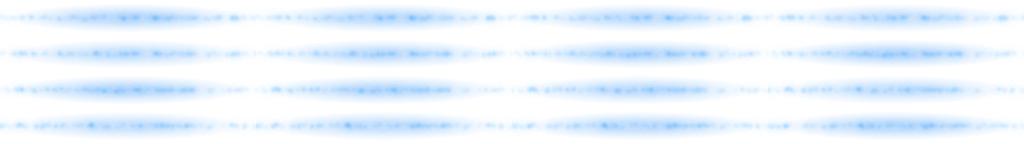
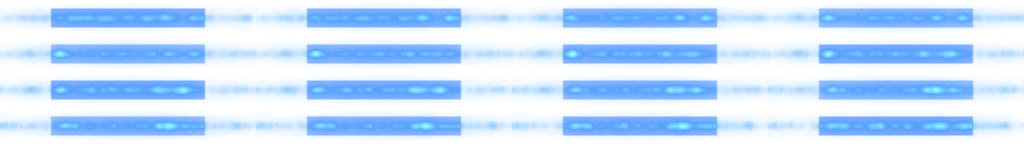
fix(display): make the barrier the shield, and visible
Three defects in one, all mine, all found by looking at the screen instead of
at the code.

The barrier was invisible. Its geometry was right - a probe on the live page
had the Rope at alpha 0.7, points on the arc, animation running - but the art
was dim navy, drawn additively over near-black space, and inside a bright
crescent that was still being drawn on top of the same arc. It added nothing a
crew could see.

So the crescent goes, for a raised sector: two takes on one arc read as a
doubled edge, and the animated one is the shield now. The crescent still draws
while the atlas is in flight, and it is still the whole picture for a lowered
sector - that dashed arc is what "down" looks like.

And the barrier had to become bright enough to be the shield rather than a wash
over one: 20 units wide against the crescent's 11, because a band of soft light
puts less of the shield's own blue on screen than a filled shape does.

The art took three passes, and the lesson is worth the words. Additive light
clips: raising every layer pinned blue at 255 while green kept climbing, and
the barrier came out cyan-white - bright, wrong, and no longer blue to the check
that measures it. `shieldGlow.spec.ts` failed exactly as its risk note said it
would, and the fix was the art, not the threshold. What works is a budget - the
additive layers sum to about one, at the shield's own hue - with the life coming
from two wide layers pulsing in antiphase rather than from a fourth layer. On
[…]

diff --git a/apps/display/src/game/scene/shield.ts b/apps/display/src/game/scene/shield.ts
@@ -22,14 +22,16 @@ const BAND_DEPTH = 15;
 /**
  * How thick the barrier is drawn, in world units.
  *
- * Narrower than the crescent's 11 on purpose. The band is additive, and the
- * crescent it lies on is already bright: brightening the middle of it pushes
- * those pixels toward white, and `tests/e2e/shieldGlow.spec.ts` finds the shield
- * by its own blue. Keeping the band inside the crescent leaves the crescent's
- * outer and inner margins untouched, so the arc still reads as blue to the spec
- * and to the eye.
+ * Wider than the crescent's 11, because the barrier replaces it rather than
+ * lying over it, and because the check that measures the shield counts pixels:
+ * a barrier is a band of soft light where the crescent was a filled shape, so
+ * it needs more width to put the same amount of the shield's own blue on screen.
+ *
+ * The first version was 9 - deliberately narrower than the crescent, to leave
+ * its blue margins untouched - and that was wrong twice over. A dim additive
+ * strip inside a bright arc is invisible, and the arc it was protecting is gone.
  */
-const BAND_THICKNESS_UNITS = 9;
+const BAND_THICKNESS_UNITS = 20;
 /** Where the taper starts, as a share of the sector from either tip. */
 const BAND_TAPER_SHARE = 0.18;
 
@@ -188,7 +190,13 @@ export class ShieldLayer {
     bearing: number,
     visible: boolean
   ): void {
-    drawShield(this.crescent, hull, snapshot, bearing, visible, this.bake);
+    // The barrier replaces the crescent rather than lying over it: two takes on
+    // the same arc read as a doubled edge, and the animated one is the shield
+    // now. The crescent still draws while the atlas is in flight, and it is
+    // still the whole picture for a lowered sector - that dashed arc is what
+    // "down" looks like and nothing here changes it.
+    const barrier = this.band !== undefined && snapshot.shield.active;
+    drawShield(this.crescent, hull, snapshot, bearing, visible && !barrier, this.bake);
     this.drawBand(hull, snapshot, bearing, visible);
     this.drawnPose =
       visible && snapshot.shield.active ? { centre: { x: hull.x, y: hull.y }, bearing } : undefined;

diff --git a/packages/fx-assets/src/manifest.ts b/packages/fx-assets/src/manifest.ts
@@ -105,7 +105,7 @@ export const FX_EFFECTS: readonly FxEffect[] = [
     hint: "Луп ленты энергии. Дисплей гнёт её по дуге поднятого сектора, поэтому в атласе она прямая и горизонтальная, а яркость берёт от заряда.",
     oriented: false,
     loop: true,
-    bytes: 246018,
+    bytes: 282776,
     url: new URL("../atlases/shield-band.png", import.meta.url).href,
     meta: {
       frameWidth: 256,

diff --git a/apps/display/src/game/spaceshipViewModel.ts b/apps/display/src/game/spaceshipViewModel.ts
@@ -412,7 +412,7 @@ export function getShieldBandPoints(
  * floor is deliberate - a shield that is up must never be invisible, or the
  * crew cannot tell it from a shield that is down.
  */
-export const SHIELD_BAND_ALPHA_MIN = 0.35;
+export const SHIELD_BAND_ALPHA_MIN = 0.5;
 export const SHIELD_BAND_ALPHA_MAX = 1;
 
 export function getShieldBandAlpha(energy: number, capacity: number): number {

diff --git a/openspec/changes/animated-shield-and-impacts/tasks.md b/openspec/changes/animated-shield-and-impacts/tasks.md
@@ -1,9 +1,9 @@
 ## 1. Эффекты и каталог
 
-- [x] 1.1 `packages/fx-assets/effects/shield-band.json` — луп прямой ленты энергии. Мембрана одним
-      растянутым спрайтом (`aspect` масштабирует только X и зажат в 8), ядро — плотная линия частиц
-      с низкой альфой и большим перекрытием, сверху редкие искры. Все остановки градиентов
-      синедоминантные.
+- [x] 1.1 `packages/fx-assets/effects/shield-band.json` — луп прямой ленты энергии. Тело и ореол —
+      два растянутых спрайта в противофазе (`aspect` масштабирует только X и зажат в 8), поверх
+      мерцание частиц и редкие искры. Все остановки градиентов синедоминантные, а сумма аддитивных
+      слоёв держится около единицы: перебор выбивает синий в циан-белый.
 - [x] 1.2 `packages/fx-assets/effects/shield-impact.json` — вспышка контакта, рябь, брызги.
       Направленный: смотрит вверх, точка контакта на нижней кромке композиции.
 - [x] 1.3 Категория `shield` в `FX_CATEGORIES` и `FX_CATEGORY_LABELS`, записи в `catalogue.json`.
@@ -24,8 +24,9 @@
 
 ## 3. Барьер на сцене
 
-- [x] 3.1 `ShieldLayer` в `scene/shield.ts` вокруг существующего `drawShield` — серп остаётся ровно
-      таким, каким был.
+- [x] 3.1 `ShieldLayer` в `scene/shield.ts` вокруг существующего `drawShield`. Геометрия серпа не
+      тронута, но при поднятом щите он больше не рисуется: барьер заменяет его, а не лежит поверх.
+      Серп остаётся картинкой опущенного сектора и подстраховкой, пока атлас в полёте.
 - [x] 3.2 Лента на `Rope`: ленивая загрузка атласа, масштаб из толщины и `frameHeight`, точки на
       `radius / scale`, альфа на вершину гасит концы сектора, `ADD`.
 - [x] 3.3 Пересчёт точек только при смене формы; поворот каждый кадр.

diff --git a/.agents/skills/arcadia-effects/SKILL.md b/.agents/skills/arcadia-effects/SKILL.md
@@ -143,6 +143,17 @@ node scripts/bake-fx-atlases.mjs --effects /tmp/fxreview --out /tmp/fxreview \
 - **Альфа частицы на `add` держится низкой — 0.03…0.1 для массы, до ~0.35 для редких элементов.
   Яркость набирается перекрытием.** Пик 0.9 на 26 перекрывающихся частицах даёт белый шар вместо
   эффекта; это была настоящая ошибка в первой версии `muzzle-flash`.
+- **Сумма аддитивных слоёв держится около единицы, если цвет эффекта важен.** Аддитивное сложение
+  упирает старший канал в 255 и продолжает поднимать остальные, поэтому синий эффект при перебором
+  сложении становится циан-белым, а не «ярче синим». У `shield-band` это стоило трёх итераций: плита
+  0.95 + ореол 0.5 + ядро + искры дали на экране циан, и e2e-спек `shieldGlow` перестал находить щит
+  по его собственному синему (`blue ≥ 170`, `blue − green ≥ 40`, `green − red ≥ 50`). Лечится не
+  яркостью, а бюджетом: сумма ≈ 1 при синедоминантном цвете, а «живость» берётся противофазой
+  пульсаций (`meander(..., invert=True)`), а не добавкой ещё одного слоя.
+- **Тонкую длинную полосу одним спрайтом не сделать: `sp.aspect` зажат в 8** (`engine.js`,
+  `AFX.clamp(fx.aspect || 1, 0.2, 8)` и `sxm = base * aspect`), а высота спрайта равна `sp.size`.
+  Значит полоса 512×36 — это два-три слоя, а не один, и `soft` даёт градиентный профиль, `square` —
+  ровный.
 - **`turbMode: 'curl'`** — вихревое поле в мировых координатах, соседние частицы едут связной
   струёй; всё текучее хочет именно его. `turbScale` — размер вихря, `turbRise` — поле всплывает с
   плюмом, `turbRamp` — ламинарный низ. `'noise'` даёт дрожание без структуры.

diff --git a/openspec/changes/animated-shield-and-impacts/specs/primitive-top-down-battlefield/spec.md b/openspec/changes/animated-shield-and-impacts/specs/primitive-top-down-battlefield/spec.md
@@ -2,10 +2,15 @@
 
 ### Requirement: Поднятый щит показан живым барьером
 
-Display SHALL рисовать поднятый сектор щита анимированным барьером поверх запечённого серпа, и
+Display SHALL рисовать поднятый сектор щита анимированным барьером **вместо** неподвижного серпа, и
 барьер SHALL занимать весь сектор при любой его ширине — включая ширину, которую крой увеличил
 модулем, и базовую ширину, изменённую оператором в консоли. Опущенный щит SHALL оставаться прежней
-пунктирной дугой без барьера, чтобы поднятый сектор нельзя было спутать с опущенным.
+пунктирной дугой без барьера, чтобы поднятый сектор нельзя было спутать с опущенным. Пока атлас
+барьера не загружен, display SHALL рисовать серп: щит не может остаться без картинки вовсе.
+
+Барьер SHALL быть неоднородным по плотности — это энергия, а не залитая фигура, — и при этом SHALL
+сохранять собственный синий цвет щита: аддитивная сумма его слоёв SHALL NOT переполнять канал, иначе
+синий упирается в предел, зелёный продолжает расти, и барьер уходит в циан-белый.
 
 Яркость барьера SHALL читать заряд щита, и SHALL иметь ненулевой минимум: сектор на исходе SHALL
 выглядеть слабее полного, но SHALL оставаться видимым.

diff --git a/openspec/changes/animated-shield-and-impacts/proposal.md b/openspec/changes/animated-shield-and-impacts/proposal.md
@@ -13,7 +13,8 @@
 
 ## Goals
 
-- Поднятый щит выглядит живым барьером, а не дугой, и делает это при любой ширине сектора.
+- Поднятый щит выглядит живым барьером вместо неподвижного серпа, и делает это при любой ширине
+  сектора.
 - Заблокированная угроза оставляет отметку **в точке контакта**, а не в центре корабля.
 - Яркость барьера читает заряд: сектор на исходе виден как сектор на исходе.
 - Ни одного нового поля на проводе.
@@ -28,7 +29,8 @@
   блок, а собственную смерть от огня крою — и ложная отметка на барьере хуже отсутствующей.
 - Назначение эффектов щита из консоли. Слоты живут у архетипов врагов; у корабля их нет, и добавить
   их — это поля в схеме баланса, миграция и публикация на дисплей.
-- Замена пунктирной дуги опущенного щита.
+- Замена пунктирной дуги опущенного щита: барьер — это то, как выглядит поднятый сектор, и опущенный
+  остаётся ровно таким, каким был.
 
 ## What Changes
 
